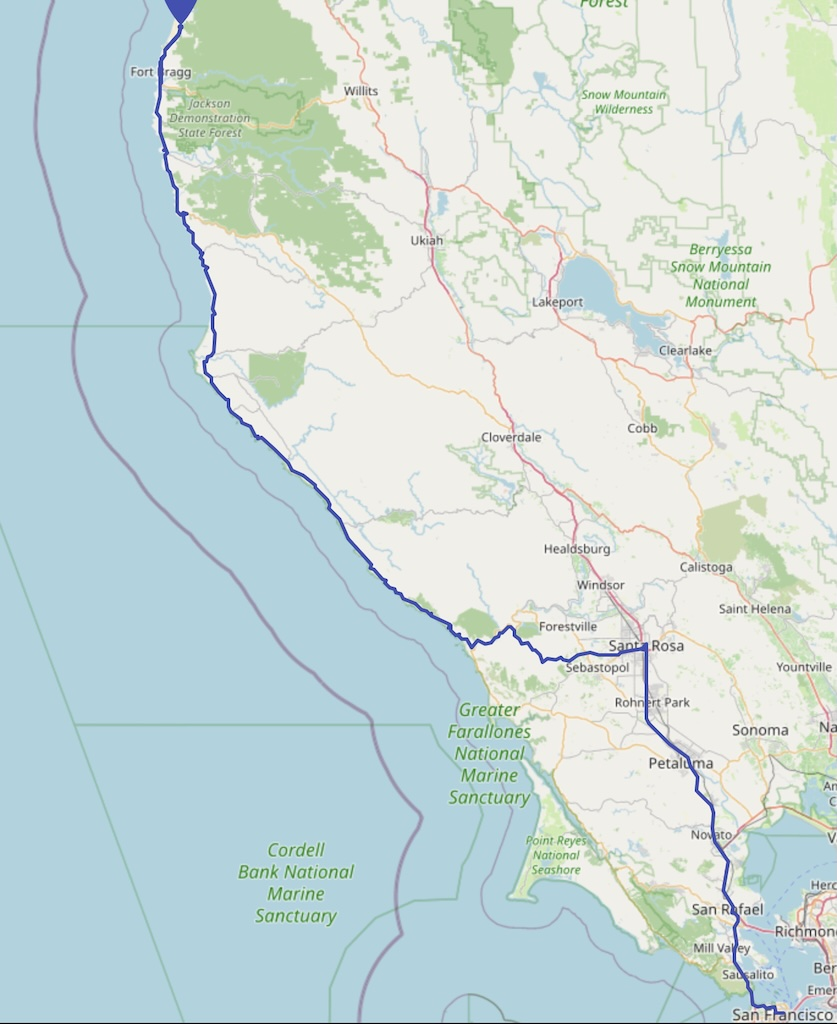
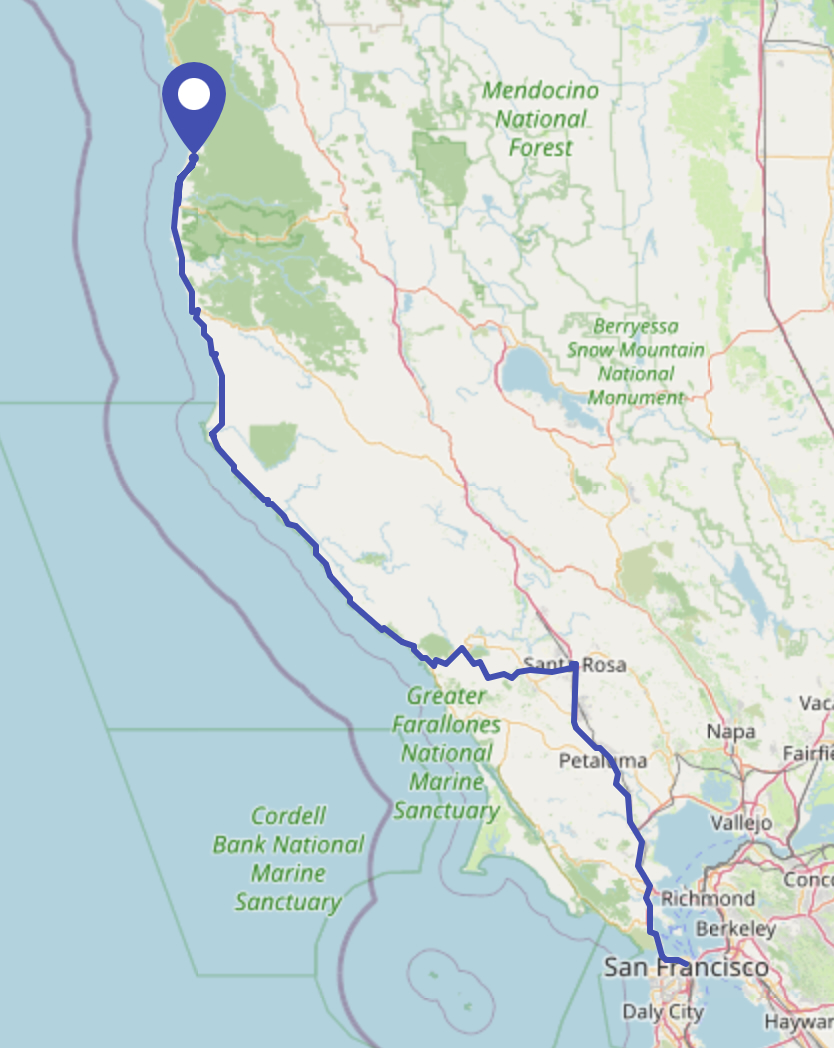
Add Map.

diff --git a/docs/Travel/SanFrancisco22-29SEP26.md b/docs/Travel/SanFrancisco22-29SEP26.md
@@ -208,6 +208,7 @@ The hotel said if we wanted a drink to go [here](https://tunneltop.bar).
 ![IMG_3996.jpeg](images/SanFrancisco22-29SEP26/IMG_3996.jpeg)
 ![IMG_3997.jpeg](images/SanFrancisco22-29SEP26/IMG_3997.jpeg)
 ## Saturday Driving up 101
+![Saturday.jpg](images/SanFrancisco22-29SEP26/Saturday.jpg)
 ![IMG_3998.jpeg](images/SanFrancisco22-29SEP26/IMG_3998.jpeg)
 ![IMG_3999.jpeg](images/SanFrancisco22-29SEP26/IMG_3999.jpeg)
 ![IMG_4002.jpeg](images/SanFrancisco22-29SEP26/IMG_4002.jpeg)
@@ -229,3 +230,4 @@ The hotel said if we wanted a drink to go [here](https://tunneltop.bar).
 ![IMG_4031.jpeg](images/SanFrancisco22-29SEP26/IMG_4031.jpeg)
 ![IMG_4032.jpeg](images/SanFrancisco22-29SEP26/IMG_4032.jpeg)
 ![IMG_4034.jpeg](images/SanFrancisco22-29SEP26/IMG_4034.jpeg)
+
